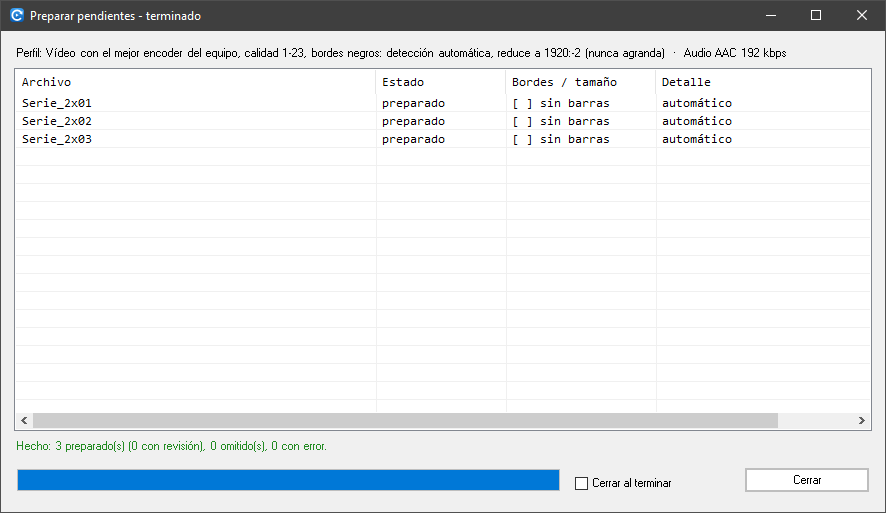
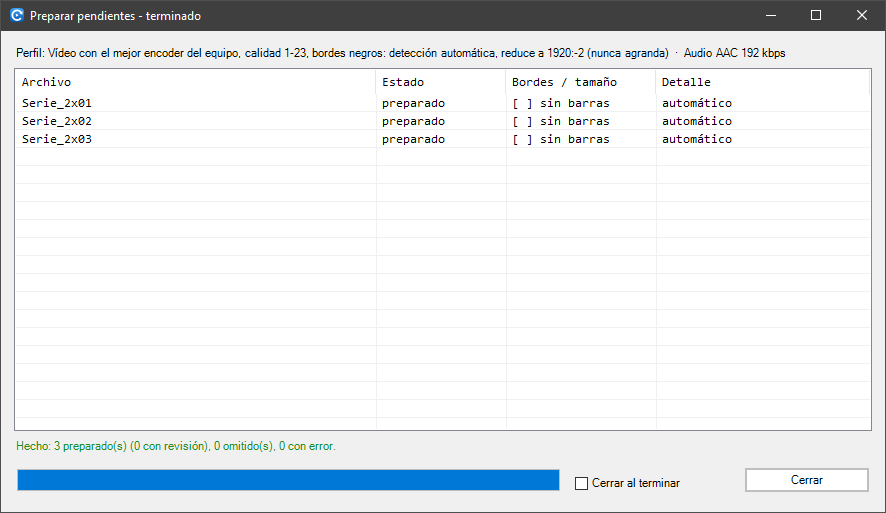
fix(v4.7.7): enlaces legibles en tema oscuro y Preparar pendientes sin barra horizontal ni cierre automático con cosas que mirar
- Tema oscuro: los enlaces (LinkLabel) usaban su propio color, el azul
  puro del sistema, y no se leían sobre el fondo oscuro (la línea plegada
  del escaneo en el editor del job). Set-CvGuiThemeControl les pone el
  azul de la paleta: claro en oscuro, oscuro en claro. Unitarios con las
  dos paletas; trampa apuntada en ref-gotchas.

- Preparar pendientes: sus cuatro columnas eran de ancho fijo (940 px) y
  no cabían en la lista de una ventana de 900, así que salía la barra
  horizontal desde el principio. Ahora «Detalle» se queda con el ancho
  que sobra (Set-CvGuiListFillColumn, como las demás listas). La batería
  de la cola comprueba que las columnas caben.

- «Cerrar al terminar» solo cierra la ventana si todo se ha preparado en
  automático y bien. Con algún archivo revisado a mano u omitido, un
  error o el recorrido cancelado, se queda abierta y añade el motivo al
  resumen, en naranja («No se cierra sola: 1 con revisión, 2
  omitido(s)…»). La decisión sigue en Get-CvPrepareEndState, que ahora
  devuelve también Reason. Tests actualizados («con omitidos tampoco se
  cierra sola»).

Manual (02-preparar), ref-cola, ref-configuracion, ayuda de
gui.prepareAutoClose y captura de Preparar actualizados. Lint, unitarios
1649/1649, cola 667/667, setup 466/466.

diff --git a/docs/ref-gotchas.md b/docs/ref-gotchas.md
@@ -115,6 +115,7 @@ Recopilación de fallos **reales** que ya nos han mordido (con su corrección) y
 - **`ShowDialog` reactiva la ventana dueña ANTES de volver.** El `Activated` de la cola llega dentro del `ShowDialog` del diálogo, antes de que el botón que lo abrió siga con su refresco: mirar ahí «¿se acaba de refrescar?» siempre decía que no y se refrescaba dos veces. **Regla:** lo que dependa de lo que haga el manejador después del diálogo, con `BeginInvoke` (corre cuando el manejador ha terminado).
 - **Un `.GetNewClosure()` DENTRO de otro no ve las variables que capturó el de fuera.** `$form.Add_Shown({ $form.BeginInvoke([Action]{ $abrir.PerformClick() }.GetNewClosure()) }.GetNewClosure())`: el de dentro solo captura los locales del ámbito donde se crea, y `$abrir` vive en el módulo dinámico del de fuera, no ahí: llegaba `$null` y `setup-gui -Open` no abría nada. **Regla:** la acción se crea en el ámbito de la función (`$pulsar = [Action]({ ... }.GetNewClosure())`) y el manejador solo la usa. Lo caza el caso *-Open tools abre las herramientas* de la batería de setup.
 - **Un proceso lanzado desde la ventana activa puede activar su primera ventana** aunque nadie la traiga delante: Windows le pasa el permiso de primer plano. Las baterías y las capturas lo hacían y te quitaban el foco. **Regla:** en modo pruebas, al activarse, la ventana lo devuelve a la de quien trabaja (`Restore-CvGuiTestFocus`); para que la barra de título salga encendida en una captura, `WM_NCACTIVATE` y no `Activate`. Y lanzar un proceso con `-WindowStyle Hidden` aplica ese estilo a SU primera ventana: la de la cola salía minimizada.
+- **Un `LinkLabel` no pinta el enlace con su `ForeColor`.** Tiene sus propios colores (`LinkColor`, `ActiveLinkColor`, `VisitedLinkColor`, `DisabledLinkColor`) y de serie son el azul puro del sistema, que en tema oscuro no se lee. **Regla:** el tema los pone por tipo (`Set-CvGuiThemeControl`, el azul de *lo editado* de la paleta). Pasó con la línea plegada del escaneo en el editor del job.
 - **Doble clic en un `ListView` con casillas marca/desmarca la fila.** Lo hace el control por su cuenta, también si el doble clic era para otra cosa (editar una celda). **Regla:** en `MouseDown` con `Clicks -ge 2` sobre una columna editable se levanta una bandera, y en `ItemCheck` con la bandera puesta `NewValue = CurrentValue` (se baja en `MouseUp`). Editor del job, fase A6.
 - **`Dock = Fill` dentro de una celda de `TableLayoutPanel` resta el `Margin` del control.** Para dar a un `GroupBox` el alto justo de su contenido hay que sumar su `Margin.Vertical` y el borde de la lista (`Height - ClientSize.Height`): sin ellos, la tercera pista del audio salía cortada con barra de scroll.
 - **Un `RichTextBox` guarda los saltos como `\n`, no `\r\n`.** Lo que se le asigna con `\r\n` se lee luego con `\n`: comparar su `.Text` con el texto asignado da siempre distinto (se repintaría en cada vuelta del temporizador) y contar posiciones con `\r\n` descuadra un carácter por línea. **Regla:** montar el texto con `\n` (`Get-CvGuiSummaryRuns`) y, al copiarlo al portapapeles, volver a `\r\n`.

diff --git a/changelog.md b/changelog.md
@@ -2,6 +2,9 @@
 
 ## VERSION 4.7.7 - 07/11/2026
 ### UPDATE
+  - **«Cerrar al terminar» (Preparar pendientes) solo cierra si todo ha sido automático y bien, y si no, dice por qué.** Antes se cerraba sola también con archivos revisados a mano u omitidos (solo la paraban un error o cancelar), y el resumen desaparecía sin dar tiempo a verlo. Ahora, con cualquier archivo revisado, omitido, con error o el recorrido cancelado, se queda abierta y añade al resumen, en naranja, el motivo: *No se cierra sola: 1 con revisión, 2 omitido(s). Revisa la lista antes de cerrar.* La decisión sigue en `Get-CvPrepareEndState` (pura), que ahora devuelve también `Reason`; tests actualizados (el de *omitir no es un fallo* pasa a *con omitidos tampoco se cierra sola*).
+  - **Preparar pendientes ya no saca barra horizontal de entrada.** Sus cuatro columnas eran de ancho fijo (940 px) y no cabían en la lista de una ventana de 900: la barra salía siempre, sin nada largo que ver. Ahora *Detalle* se queda con el ancho que sobra (`Set-CvGuiListFillColumn`, como las demás listas) y crece con la ventana. La batería de la cola comprueba que las columnas caben.
+  - **En tema oscuro, la línea plegada del escaneo (editor del job) no se leía:** era un enlace y los enlaces llevan su propio color, el azul puro del sistema. El tema ahora colorea los enlaces (`LinkLabel`) con el azul de su paleta: claro en oscuro, oscuro en claro. Probado en los unitarios con las dos paletas.
   - **Versión 4.7.7.** La 4.7.6 ya estaba etiquetada (`v4.7.6`): todo lo de esta sección va en la nueva (`Get-CvVersion` y su test unitario, a la par).
   - **Identificar monitores** (setup, sección *Pruebas*): como el de Windows, cada pantalla enseña su **número** en grande unos segundos (`gui.identifyMonitorsSec`, 3), con su resolución, si es el principal y, resaltado en azul, si es donde salen **ahora** las ventanas de las pruebas. Es el número que va en `gui.testScreenNumber`; el panel de setup lo deja además por escrito. `Show-CvGuiMonitorIds` / `Get-CvGuiMonitorRows` (puro, probado) en `Gui.psm1`.
   - **Se puede elegir en qué monitor salen las ventanas de las pruebas** (`gui.testScreen`, avanzada): `other` (de serie, lo de hasta ahora) = el monitor donde **no** estás trabajando; `mouse` = el del **ratón**; `number` = uno **fijo**, el de `gui.testScreenNumber` (el número de Windows: `DISPLAY1` = 1…; si no existe, como `other`). Vale para las baterías de ventanas y las capturas del manual, que lo leen del config por defecto antes de abrir ninguna (`Get-CvStartupPrefs`); la app no cambia. En el editor de configuración sale como desplegable (`Get-CvGuiTestScreens`). La elección es pura (`Select-CvGuiTestArea -Mode -Number -Mouse`) y está probada con pantallas simuladas.

diff --git a/manual/02-preparar.md b/manual/02-preparar.md
@@ -75,7 +75,7 @@ En la cola, el botón **`Preparar pendientes (N)`** recorre todos los archivos q
 
 Abajo, el pie cuenta en qué va y el botón de la derecha dice lo que hace: mientras recorre es **`Cancelar`** (para después del archivo en curso, no a mitad), y al terminar pasa a **`Cerrar`**. Cuando acaba se nota: el resumen sale en **verde** —*"Hecho: 3 preparado(s) (0 con revisión), 0 omitido(s), 0 con error"*—, el título de la ventana dice *terminado* (para verlo desde la barra de tareas sin traerla delante) y el botón responde también a **Intro**. Si algo ha fallado o lo has cancelado, el resumen sale en **naranja**.
 
-La casilla **`Cerrar al terminar`** hace que la ventana se cierre sola al acabar el recorrido, y se recuerda para la próxima vez (es la opción `gui.prepareAutoClose`). Con un **error** o si la **cancelas**, se queda abierta aunque esté marcada: ese resumen es el único sitio donde se cuenta lo que ha pasado.
+La casilla **`Cerrar al terminar`** hace que la ventana se cierre sola al acabar el recorrido, y se recuerda para la próxima vez (es la opción `gui.prepareAutoClose`). Solo se cierra si **todo** se ha preparado en automático y bien: si has **revisado** alguno a mano, lo has **omitido**, ha habido un **error** o la **cancelas**, se queda abierta aunque esté marcada y te dice por qué (*No se cierra sola: 1 con revisión…*). Ese resumen es el único sitio donde se cuenta lo que ha pasado.
 
 **Solo se para a preguntar en los mismos casos en que se pararía la consola**: varias pistas de vídeo, vídeo anamórfico, ninguna o varias pistas de audio en tu idioma, subtítulos pero ninguno en tu idioma, o un recorte que no está claro. En esos casos abre el editor **ya relleno** y con el motivo escrito arriba; tú confirmas o cambias. **Mientras respondes no se para**: el análisis sigue con el resto en segundo plano, lo que no necesita nada se va guardando, y los que también necesitan que los mires quedan **en espera** y se abren uno detrás de otro según vas guardando. Si se ha parado a **confirmar un recorte** (perfil con detección de bordes completa, o un archivo que empieza por `_`), antes te enseña el vídeo **original** y luego **con el recorte**, igual que la consola; se desactiva con `gui.previewCropOnAsk`. Si ese recorte lo ven **todos** los puntos del escaneo y no hay nada más que revisar en el archivo, al terminar el foco queda en **`Guardar job`**: con **Intro** está hecho (`gui.focusSaveCropPct`).
 

diff --git a/docs/ref-configuracion.md b/docs/ref-configuracion.md
@@ -371,7 +371,7 @@ Lo que `console` es para el modo consola, pero para `Convert-gui` / `setup-gui`.
 | `singleInstancePollMs` | `500` | Cada cuánto mira la cola abierta si otro arranque le pide salir al frente (ms; mínimo 50). |
 | `previewCropOnAsk` | `true` | Cuando el **editor del job** se para a **confirmar un recorte** —perfil con `detectBorder: true`, o un archivo que empieza por `_`—, reproduce antes el vídeo **original** y luego **con el recorte**, como hace la consola en ese mismo punto. Una sola vez por archivo: cambiar después de perfil no lo vuelve a lanzar. Con `false` solo pregunta, y los botones *Ver original* / *Ver recorte* siguen ahí. |
 | `focusSaveCropPct` | `100` | Si el editor se para a confirmar un recorte que ven **al menos este %** de los puntos del escaneo, y **no hay nada más que revisar** en ese archivo, al terminar de enseñarlo el foco queda en **`Guardar job`**: Intro lo guarda. Con otra pregunta pendiente (el audio, una pista…) el foco no se mueve, para que un Intro no se la salte. `0` = no mover el foco. |
-| `prepareAutoClose` | `false` | Valor de partida de la casilla *Cerrar al terminar* de **Preparar pendientes** (la ventana lo reescribe aquí al marcarla). Con un error, o si se cancela, **no** se cierra aunque esté marcada. |
+| `prepareAutoClose` | `false` | Valor de partida de la casilla *Cerrar al terminar* de **Preparar pendientes** (la ventana lo reescribe aquí al marcarla). Solo se cierra si **todo** se ha preparado en automático y bien: con algún archivo revisado a mano u omitido, un error o si se cancela, **no** se cierra aunque esté marcada, y dice por qué. |
 | `prepareAutoCloseMs` | `1200` | Lo que se ve el resumen antes de que esa ventana se cierre sola (ms). |
 | `confirmCloseWithWorkers` | `true` | Al **cerrar** la cola con workers codificando, preguntar qué hacer (dejarlos en segundo plano, parada ordenada o cortarlos). Los workers son **procesos aparte**: cerrar la ventana **no los mata**, así que con `false` se cierra sin avisar y siguen codificando ocultos. Es el equivalente en ventana de `behavior.lockCloseButton`. |
 | `queueWidth` / `queueHeight` | `1320` / `760` | Tamaño (px) de la ventana de la cola **la primera vez** (o siempre, con `rememberLayout: false`). Nunca por debajo del mínimo de la ventana (860x560) ni mayor que la pantalla. |

diff --git a/docs/ref-cola.md b/docs/ref-cola.md
@@ -127,7 +127,7 @@ Viene relleno con lo que se elegiría solo, usando las mismas funciones de decis
 
 No se puede editar el job de un archivo que se está codificando: el worker ya trabaja con la copia que leyó.
 
-El pie del recorrido: el botón es *Cancelar* mientras trabaja (la bandera la mira **entre** archivos, no corta el que está analizando) y pasa a *Cerrar* al acabar, momento en el que el resumen se pinta con su rol de color —verde si todo bien, naranja si hubo error o se canceló—, el título añade *terminado* y el botón queda como `AcceptButton`. La casilla *Cerrar al terminar* (**`gui.prepareAutoClose`**, y **`gui.prepareAutoCloseMs`** lo que se ve el resumen antes de cerrar) se guarda en el config al marcarla. Qué texto, qué color y si se cierra sola lo decide una función pura, `Get-CvPrepareEndState`: **con error o cancelado NO se cierra**, haya casilla o no.
+El pie del recorrido: el botón es *Cancelar* mientras trabaja (la bandera la mira **entre** archivos, no corta el que está analizando) y pasa a *Cerrar* al acabar, momento en el que el resumen se pinta con su rol de color —verde si todo bien, naranja si hubo error o se canceló—, el título añade *terminado* y el botón queda como `AcceptButton`. La casilla *Cerrar al terminar* (**`gui.prepareAutoClose`**, y **`gui.prepareAutoCloseMs`** lo que se ve el resumen antes de cerrar) se guarda en el config al marcarla. Qué texto, qué color y si se cierra sola lo decide una función pura, `Get-CvPrepareEndState`: **solo se cierra si todo se ha preparado en automático y bien**; con algún archivo **revisado a mano** u **omitido**, un **error** o si se **cancela**, se queda abierta, y con la casilla marcada lo **dice** detrás del resumen, en naranja (`Reason`: *No se cierra sola: 1 con revisión, 2 omitido(s)…*).
 
 ### Editar varios jobs a la vez
 
